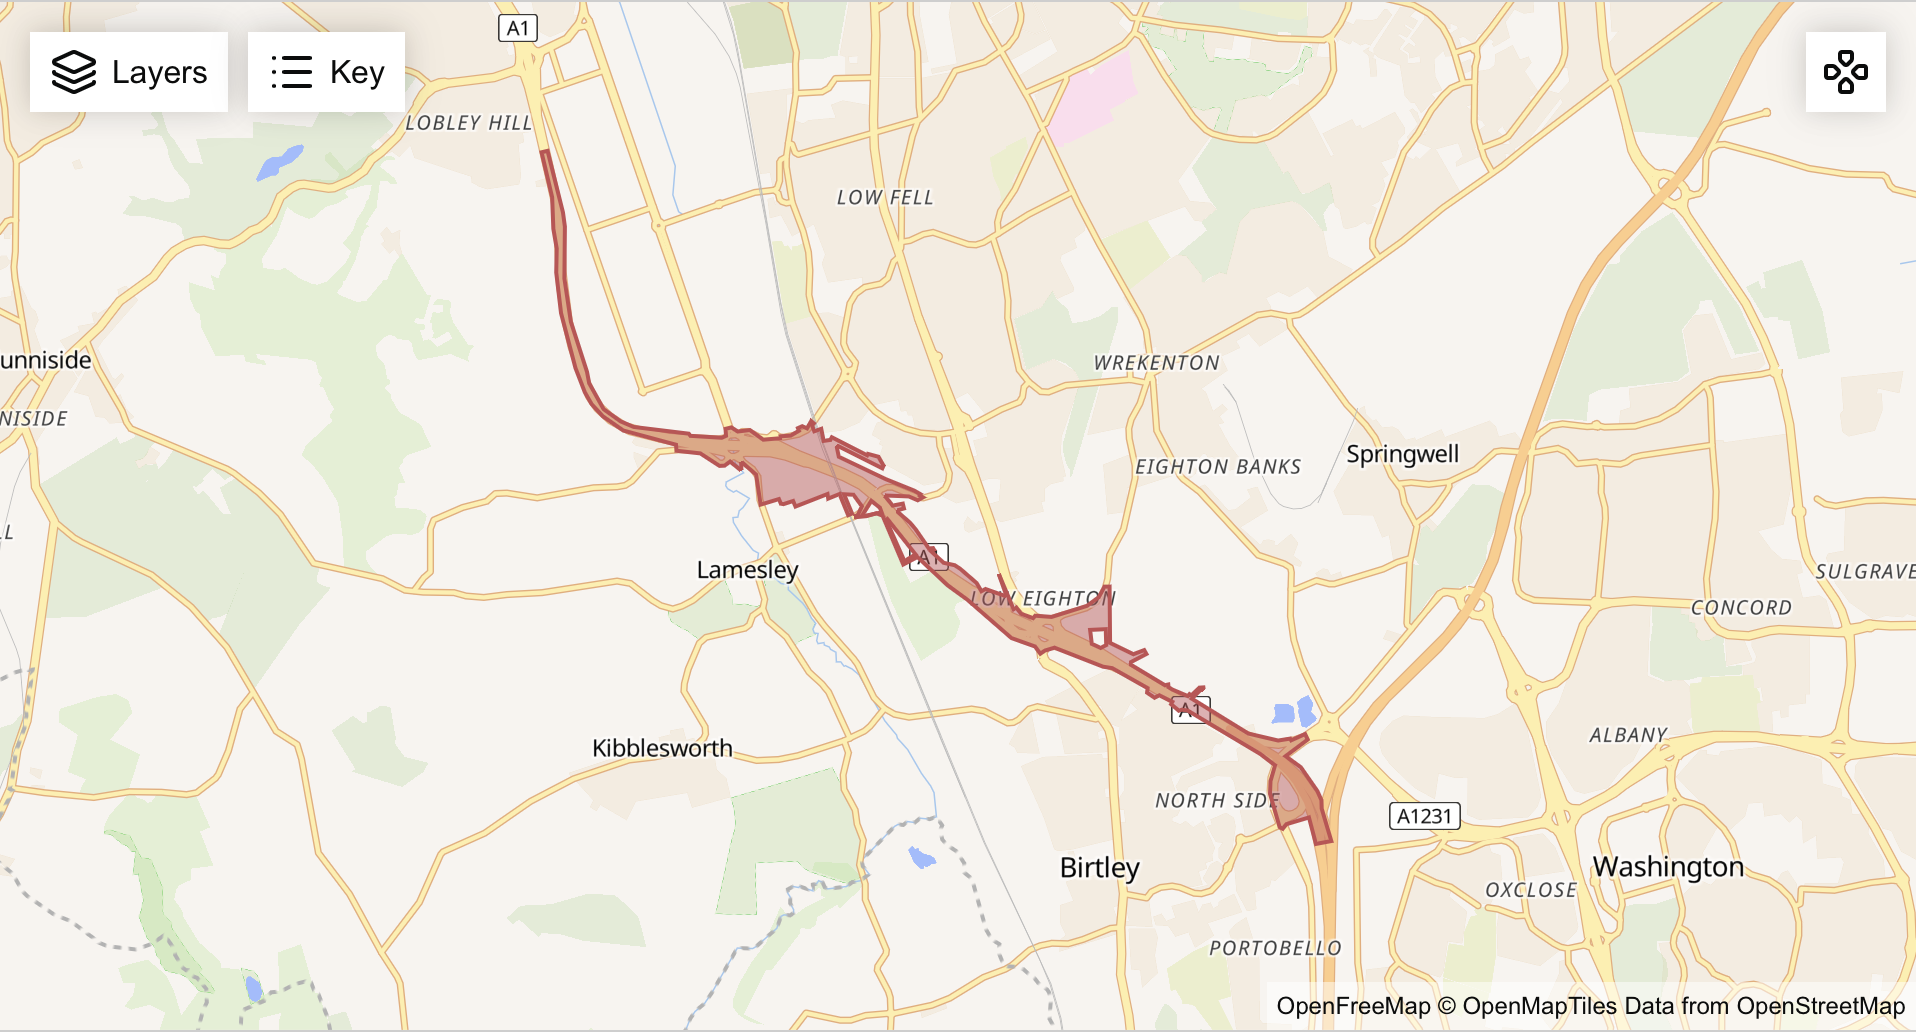
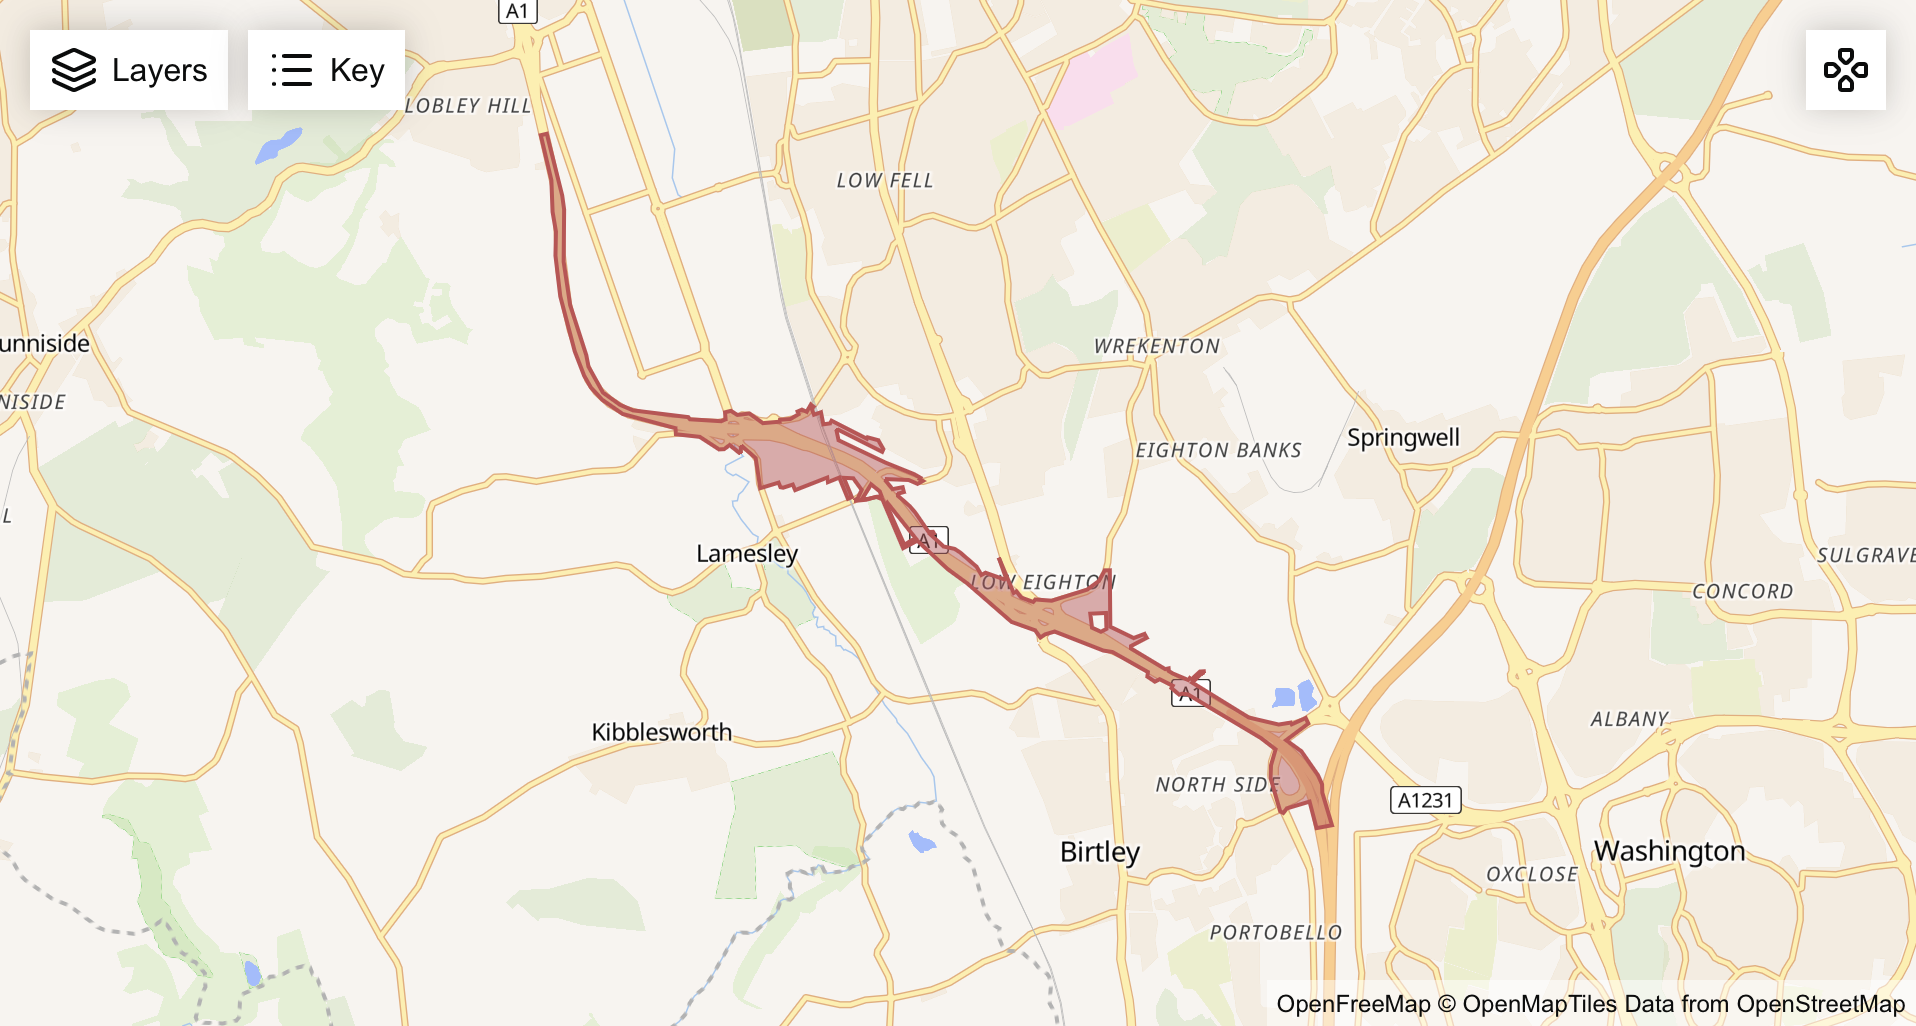
Updated GIS journey

diff --git a/app/views/GISTool/preview-report.html b/app/views/GISTool/preview-report.html
@@ -20,7 +20,7 @@ GOV.UK page template – {{ serviceName }} – GOV.UK Prototype Kit
     <dl class="govuk-summary-list govuk-!-margin-bottom-9">
       <div class="govuk-summary-list__row govuk-summary-list__row--no-border">
         <dt class="govuk-summary-list__key">
-          Case
+          Project
         </dt>
         <dd class="govuk-summary-list__value">
           Longfield Solar Farm
@@ -31,7 +31,7 @@ GOV.UK page template – {{ serviceName }} – GOV.UK Prototype Kit
       </div>
       <div class="govuk-summary-list__row">
         <dt class="govuk-summary-list__key">
-          Case reference
+          Project reference
         </dt>
         <dd class="govuk-summary-list__value">
           EN0110007
@@ -44,7 +44,7 @@ GOV.UK page template – {{ serviceName }} – GOV.UK Prototype Kit
           Shapefile
         </dt>
         <dd class="govuk-summary-list__value">
-          Acceptance_EN0110007.geojson
+          Acceptance-EN0110007.geojson
         </dd>
         <dd class="govuk-summary-list__actions">
           <a class="govuk-link" href="change-shapefile">Change<span class="govuk-visually-hidden"> shapefile</span></a>
@@ -69,7 +69,11 @@ GOV.UK page template – {{ serviceName }} – GOV.UK Prototype Kit
           Fire and rescue
         </dt>
         <dd class="govuk-summary-list__value">
-          3
+          <ul class="govuk-list govuk-list--bullet">
+            <li>Norfolk</li>
+            <li>Suffolk</li>
+            <li>Cambridgeshire</li>
+          </ul>
         </dd>
         <dd class="govuk-summary-list__actions">
           <a class="govuk-link" href="preview-consultee">Change<span class="govuk-visually-hidden"> Fire and rescue</span></a>
@@ -80,7 +84,19 @@ GOV.UK page template – {{ serviceName }} – GOV.UK Prototype Kit
           Police and crime commission
         </dt>
         <dd class="govuk-summary-list__value">
-          12
+          Showing 10 of 32 consultees
+          <ul class="govuk-list govuk-list--bullet">
+            <li>Norfolk</li>
+            <li>Suffolk</li>
+            <li>Cambridgeshire</li>
+            <li>Essex</li>
+            <li>Bedfordshire</li>
+            <li>Hertfordshire</li>
+            <li>Lincolnshire</li>
+            <li>Leicestershire</li>
+            <li>Northamptonshire</li>
+            <li>Nottinghamshire</li>
+          </ul>
         </dd>
         <dd class="govuk-summary-list__actions">
           <a class="govuk-link" href="#">Change<span class="govuk-visually-hidden"> Police and crime commission</span></a>
@@ -91,7 +107,7 @@ GOV.UK page template – {{ serviceName }} – GOV.UK Prototype Kit
           Parish community
         </dt>
         <dd class="govuk-summary-list__value">
-          3
+          Norfolk
         </dd>
         <dd class="govuk-summary-list__actions">
           <a class="govuk-link" href="#">Change<span class="govuk-visually-hidden"> Parish community</span></a>
@@ -319,7 +335,7 @@ GOV.UK page template – {{ serviceName }} – GOV.UK Prototype Kit
       </div>
       <div class="govuk-summary-list__row">
         <dt class="govuk-summary-list__key">
-          Nationally Significant Infrastructure Projects
+          National infrastructure projects
         </dt>
         <dd class="govuk-summary-list__value">
           2
@@ -332,7 +348,7 @@ GOV.UK page template – {{ serviceName }} – GOV.UK Prototype Kit
     <form action="confirmation" method="post" novalidate>
       <input type="hidden" name="answers-checked" value="true">
       <button type="submit" class="govuk-button" data-module="govuk-button">
-        Generate report
+        Create report
       </button>
     </form>
   </div>

diff --git a/app/views/GISTool/change-shapefile.html b/app/views/GISTool/change-shapefile.html
@@ -19,9 +19,6 @@ GOV.UK page template – {{ serviceName }} – GOV.UK Prototype Kit
     <h1 class="govuk-heading-xl">
       Project boundary
     </h1>
-    <p class="govuk-body">
-      Review the available GIS shapefiles from the GIS shapefiles project documentation folder.
-    </p>
   </div>
 </div>
    
@@ -37,22 +34,22 @@ GOV.UK page template – {{ serviceName }} – GOV.UK Prototype Kit
       <div class="govuk-form-group">
         <fieldset class="govuk-fieldset">
           <legend class="govuk-fieldset__legend govuk-fieldset__legend--m">
-            Select a GIS shapefile
+            Confirm shapefile for report
           </legend>
           <div class="govuk-radios" data-module="govuk-radios">
             <div class="govuk-radios__item">
-              <input class="govuk-radios__input" id="project-shapefile-1" name="shapefile" type="radio" value="Acceptance_EN0110007.geojson">
+              <input class="govuk-radios__input" id="project-shapefile-1" name="shapefile" type="radio" value="Acceptance-EN0110007.geojson">
               <label class="govuk-label govuk-radios__label" for="project-shapefile-1">
-                Acceptance_EN0110007.geojson
+                Acceptance-EN0110007.geojson
               </label>
               <div id="council-item-hint" class="govuk-hint govuk-radios__hint">
                 Uploaded: 11:20, 19 Sep 2026
               </div>
             </div>
             <div class="govuk-radios__item">
-              <input class="govuk-radios__input" id="project-shapefile-2" name="shapefile" type="radio" value="Longfield solar farm shapefiles.geojson">
+              <input class="govuk-radios__input" id="project-shapefile-2" name="shapefile" type="radio" value="Longfield-solar-farm-shapefiles.geojson">
               <label class="govuk-label govuk-radios__label" for="project-shapefile-2">
-                Longfield solar farm shapefiles.geojson
+                Longfield-solar-farm-shapefile.geojson
               </label>
               <div id="council-item-hint" class="govuk-hint govuk-radios__hint">
                 Uploaded: 12:16, 29 Jul 2026

diff --git a/app/views/GISTool/preview-consultee.html b/app/views/GISTool/preview-consultee.html
@@ -16,7 +16,7 @@ GOV.UK page template – {{ serviceName }} – GOV.UK Prototype Kit
 <div class="govuk-grid-row govuk-!-margin-top-7">
   <div class="govuk-grid-column-two-thirds-from-desktop">
     <span class="govuk-caption-xl">Longfield Solar Farm</span>
-    <h1 class="govuk-heading-xl">Fire and rescue</h1>
+    <h1 class="govuk-heading-xl">Fire and rescue consultees</h1>
   </div>
 </div>
 <div class="govuk-grid-row">
@@ -27,7 +27,7 @@ GOV.UK page template – {{ serviceName }} – GOV.UK Prototype Kit
 <div class="govuk-grid-row">
   <div class="govuk-grid-column-full">
     <table class="govuk-table">
-      <caption class="govuk-table__caption govuk-table__caption--m">Consultees</caption>
+      <caption class="govuk-table__caption govuk-table__caption--m">Included consultees</caption>
       <thead class="govuk-table__head">
         <tr class="govuk-table__row">
           <th scope="col" class="govuk-table__header">Name</th>

diff --git a/app/views/GISTool/_includes/map.html b/app/views/GISTool/_includes/map.html
@@ -8,4 +8,17 @@
   }
 </style>
 
+<script>
+  // Preload the alternate image
+  const preloadImage = new Image();
+  preloadImage.src = "../public/images/back-office/gis-tool/boundary-map-layers.png";
+
+  document.addEventListener("DOMContentLoaded", function () {
+    const mapBoundary = document.querySelector(".map-boundary");
+    mapBoundary.addEventListener("click", function () {
+      this.style.backgroundImage = "url('../public/images/back-office/gis-tool/boundary-map-layers.png')";
+    });
+  });
+</script>
+
 <div class="map-boundary" style="background-color: rgb(95, 140, 99);"></div>

diff --git a/app/views/GISTool/search.html b/app/views/GISTool/search.html
@@ -31,7 +31,7 @@ GOV.UK page template – {{ serviceName }} – GOV.UK Prototype Kit
 <div class="govuk-grid-row">
   <div class="govuk-grid-column-full">
     <table class="govuk-table">
-      <caption class="govuk-table__caption govuk-table__caption--m">Search results</caption>
+      <caption class="govuk-table__caption govuk-table__caption--m">1 results</caption>
       <thead class="govuk-table__head">
         <tr class="govuk-table__row">
           <th scope="col" class="govuk-table__header">Name</th>

diff --git a/app/views/GISTool/index.html b/app/views/GISTool/index.html
@@ -31,7 +31,7 @@ GOV.UK page template – {{ serviceName }} – GOV.UK Prototype Kit
 <div class="govuk-grid-row">
   <div class="govuk-grid-column-full">
     <table class="govuk-table">
-      <caption class="govuk-table__caption govuk-table__caption--m">All cases</caption>
+      <caption class="govuk-table__caption govuk-table__caption--m">All projects</caption>
       <thead class="govuk-table__head">
         <tr class="govuk-table__row">
           <th scope="col" class="govuk-table__header">Name</th>

diff --git a/app/views/GISTool/add-consultee.html b/app/views/GISTool/add-consultee.html
@@ -27,7 +27,7 @@ GOV.UK page template – {{ serviceName }} – GOV.UK Prototype Kit
     </div>
     <div class="govuk-form-group">
       <label class="govuk-label" for="consultee-reason">
-        Reason for identification
+        Reason for addition
       </label>
       <textarea class="govuk-textarea" id="consultee-reason" name="consulteeReason" rows="3"></textarea>
     </div>

diff --git a/app/views/GISTool/confirmation.html b/app/views/GISTool/confirmation.html
@@ -17,7 +17,7 @@ GOV.UK page template – {{ serviceName }} – GOV.UK Prototype Kit
         Report created
       </h1>
       <div class="govuk-panel__body">
-        Case: Longshore Solar Farm<br>
+        Project: Longshore Solar Farm<br>
         Reference: EN0110007
       </div>
     </div>

diff --git a/app/views/GISTool/_includes/consultee-map.html b/app/views/GISTool/_includes/consultee-map.html
@@ -6,6 +6,7 @@
     background-size: cover;
   }
 </style>
+
 <script>
   document.addEventListener("DOMContentLoaded", function () {
     const mapBoundary = document.querySelector(".map-boundary");
